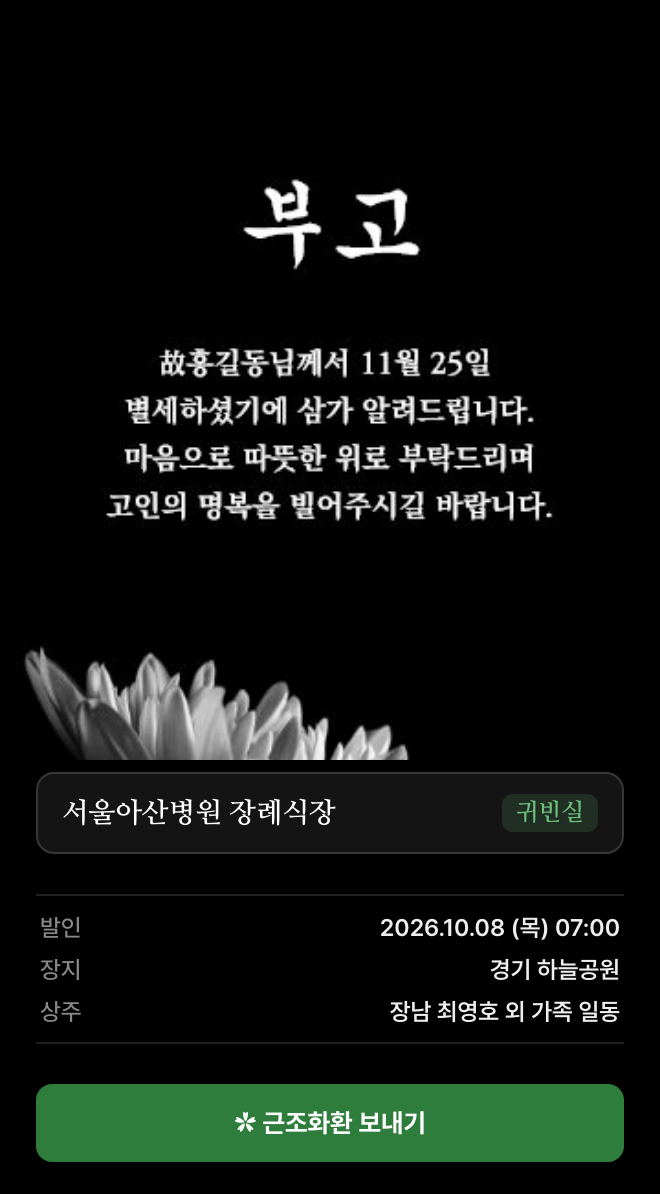
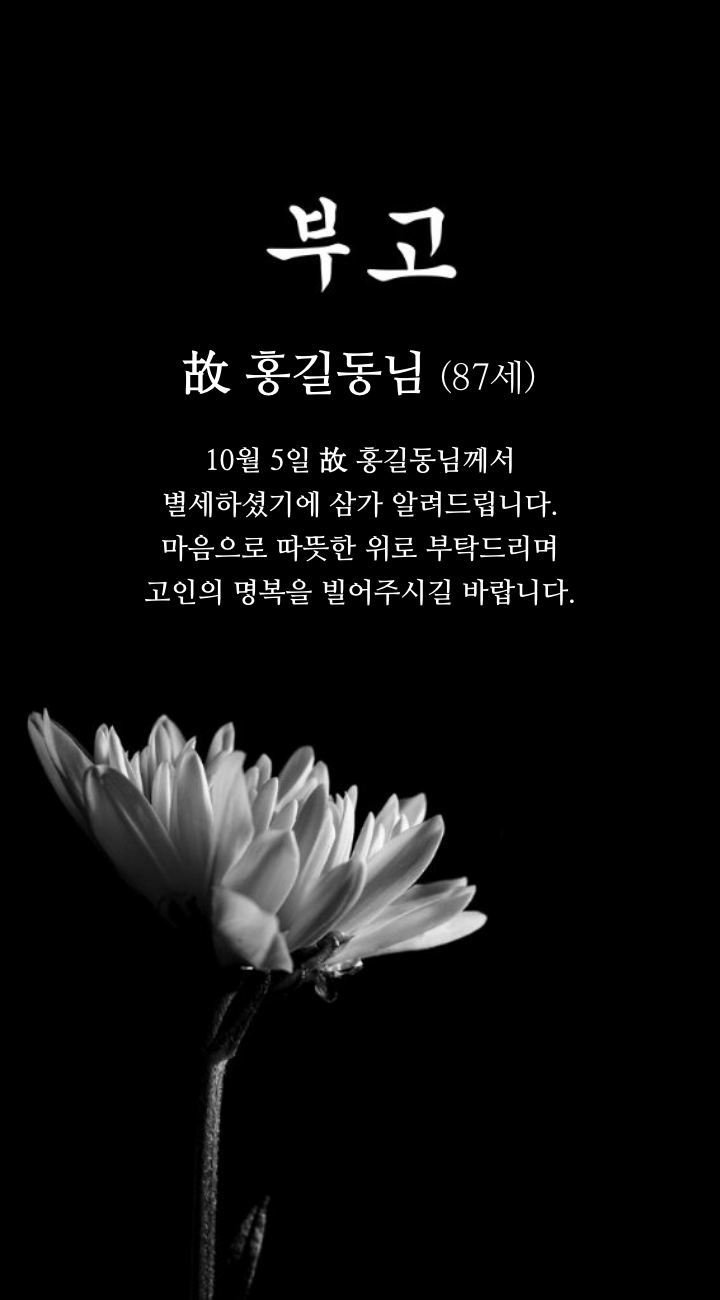
fix(bugoon-site): 실제 부고장 화면(홍길동 샘플)으로 목업 재제작

diff --git a/jojo/scripts/capture_templates.js b/jojo/scripts/capture_templates.js
@@ -1,0 +1,73 @@
+// 실제 서비스 부고장 화면(view.css + 동일 마크업)을 홍길동 샘플로 캡처하여 홈페이지 목업 이미지 생성
+// 사용: node scripts/capture_templates.js
+const { chromium } = require('playwright');
+const path = require('path');
+const fs = require('fs');
+
+const ROOT = path.resolve(__dirname, '..');
+const VIEW_CSS = path.join(ROOT, 'app/view/[id]/view.css');
+const IMG = (n) => `file://${path.join(ROOT, 'public/images', n)}`;
+
+function headerHtml(template, bgFile) {
+    return `
+    <div class="header-section template-${template}">
+        <img src="${IMG(bgFile)}" class="header-bg" alt="" />
+        <div class="header-text-overlay">
+            <div class="header-deceased-info no-religious-title">
+                <div class="header-deceased-title">故 홍길동님<span class="header-deceased-age"> (87세)</span></div>
+            </div>
+            <p class="header-dynamic-text">
+                10월 5일 故 홍길동님께서<br />
+                별세하셨기에 삼가 알려드립니다.<br />
+                마음으로 따뜻한 위로 부탁드리며<br />
+                고인의 명복을 빌어주시길 바랍니다.
+            </p>
+        </div>
+    </div>`;
+}
+
+const INFO_TABLE = `
+    <div class="section-divider"></div>
+    <section class="section">
+        <div class="funeral-info-table">
+            <div class="funeral-info-row funeral-highlight"><span class="funeral-info-label">고인</span><span class="funeral-info-value">故홍길동 (향년 87세)</span></div>
+            <div class="funeral-info-divider"></div>
+            <div class="funeral-info-row funeral-highlight"><span class="funeral-info-label">발인</span><span class="funeral-info-value">2026.10.07(수) 08:00</span></div>
+            <div class="funeral-info-divider"></div>
+            <div class="funeral-info-row"><span class="funeral-info-label">별세</span><span class="funeral-info-value">2026.10.05(월) 21:55</span></div>
+        </div>
+    </section>`;
+
+function page(inner) {
+    return `<!DOCTYPE html><html lang="ko"><head><meta charset="UTF-8">
+    <link rel="stylesheet" href="file://${VIEW_CSS}">
+    <style>html,body{margin:0;padding:0;background:#fff;overflow:hidden}</style>
+    </head><body><main class="view-page">${inner}</main></body></html>`;
+}
+
+const TASKS = [
+    // 폰 화면용: 헤더 + 고인 정보 일부 (폰이 짧아 첫 화면 분량만 사용)
+    { out: 'mockup-bugo-main.png', h: 759, html: page(headerHtml('basic', 'template-basic.png') + INFO_TABLE) },
+    // 히어로 카드용: 헤더만
+    { out: 'mockup-bugo-hero.png', h: 650, html: page(headerHtml('basic', 'template-basic.png')) },
+    { out: 'mockup-bugo-flower.png', h: 650, html: page(headerHtml('flower', 'template-flower.png')) },
+    { out: 'mockup-bugo-ribbon.png', h: 650, html: page(headerHtml('ribbon', 'template-ribbon.png')) },
+];
+
+(async () => {
+    const browser = await chromium.launch({ headless: true });
+    const tmp = path.join(ROOT, 'scripts', '.tmp_capture.html');
+    for (const t of TASKS) {
+        const ctx = await browser.newContext({ viewport: { width: 360, height: t.h }, deviceScaleFactor: 2 });
+        const p = await ctx.newPage();
+        fs.writeFileSync(tmp, t.html);
+        await p.goto(`file://${tmp}`, { waitUntil: 'networkidle' });
+        await p.evaluate(() => document.fonts.ready);
+        await p.waitForTimeout(600);
+        await p.screenshot({ path: path.join(ROOT, 'public/images', t.out), clip: { x: 0, y: 0, width: 360, height: t.h } });
+        console.log('Saved', t.out);
+        await ctx.close();
+    }
+    fs.unlinkSync(tmp);
+    await browser.close();
+})();

diff --git a/jojo/components/bugoon-site/BugoonSite.tsx b/jojo/components/bugoon-site/BugoonSite.tsx
@@ -492,7 +492,7 @@ export default function BugoonSite() {
                     <div className={s.heroVisual} {...{ 'data-reveal': '' }}>
                         <div className={`${s.card} ${s.cardLeft}`}><img src="/images/mockup-bugo-flower.png" alt="국화 부고장 완성 화면" /></div>
                         <div className={`${s.card} ${s.cardRight}`}><img src="/images/mockup-bugo-ribbon.png" alt="리본 부고장 완성 화면" /></div>
-                        <div className={`${s.card} ${s.cardMain}`}><img src="/images/mockup-bugo-main.png" alt="기본 부고장 완성 화면" /></div>
+                        <div className={`${s.card} ${s.cardMain}`}><img src="/images/mockup-bugo-hero.png" alt="기본 부고장 완성 화면" /></div>
                         <div className={`${s.floatTag} ${s.tagA}`}><span className={s.floatIcon}>✉</span><div>부고장 발송 완료<small>카카오톡으로 전달됨</small></div></div>
                         <div className={`${s.floatTag} ${s.tagB}`}><span className={s.floatIcon}>✿</span><div>화환 주문 도착<small>근조화환 고급형</small></div></div>
                     </div>
